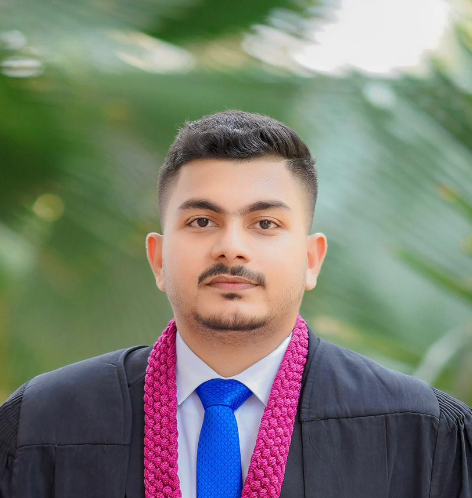
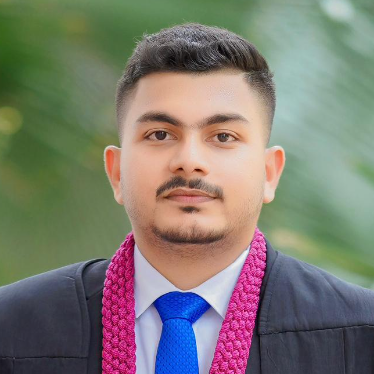
Updated the images

diff --git a/src/pages/Home.jsx b/src/pages/Home.jsx
@@ -28,7 +28,7 @@ const Home = () => {
 				<div className="text-center">
 					<p className="font-general-medium text-2xl sm:text-4xl mb-1 text-ternary-dark dark:text-ternary-light"
 					   style={{marginBottom: "7vh"}}>
-						What we do...
+						What We Offer
 					</p>
 				</div>
 				<WhatWeDo/>
@@ -42,7 +42,7 @@ const Home = () => {
 				<div className="text-center">
 					<p className="font-general-medium text-2xl sm:text-4xl mb-1 text-ternary-dark dark:text-ternary-light"
 					   style={{marginBottom: "7vh"}}>
-						Who are we...
+						Get To Know Us
 					</p>
 				</div>
 				<About/>

diff --git a/src/components/about/AboutClients.jsx b/src/components/about/AboutClients.jsx
@@ -6,7 +6,7 @@ import {FaTwitter, FaLinkedin, FaFacebook} from "react-icons/fa";
 import { motion } from "framer-motion";
 import ThilinaDP from "../../images/profileImages/thilina.png";
 import CharithDP from "../../images/profileImages/charith.jpeg";
-import ChanakaDP from "../../images/profileImages/chanaka.png";
+import ChanakaDP from "../../images/profileImages/chanaka.jpeg";
 import LahiruDP from "../../images/profileImages/lahiru.png";
 
 const AboutClients = () => {
